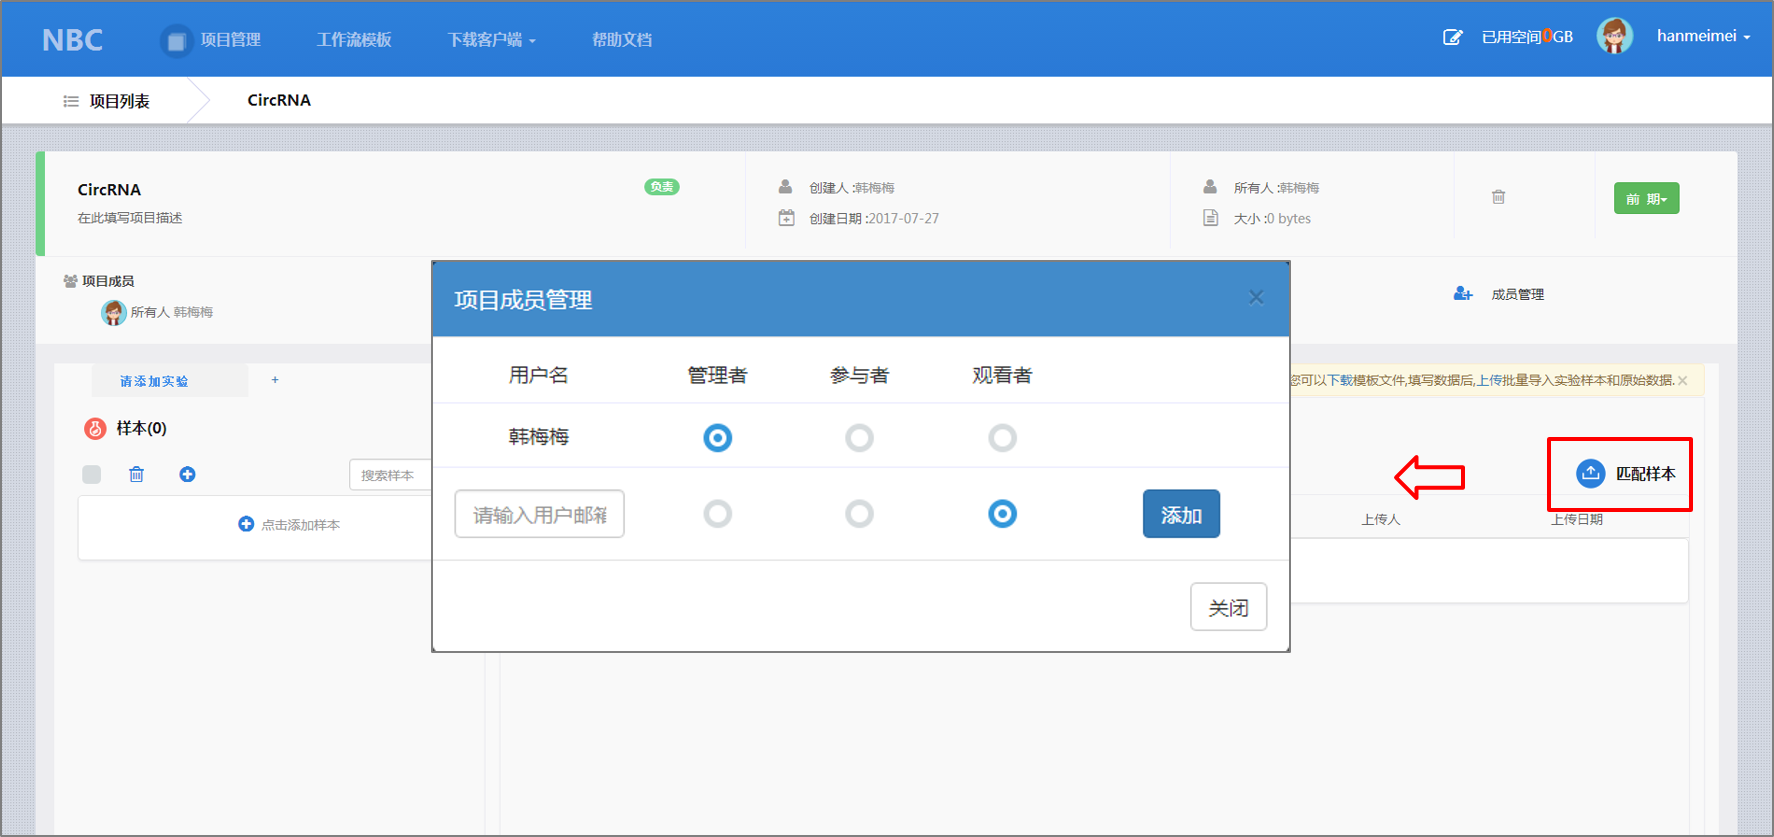
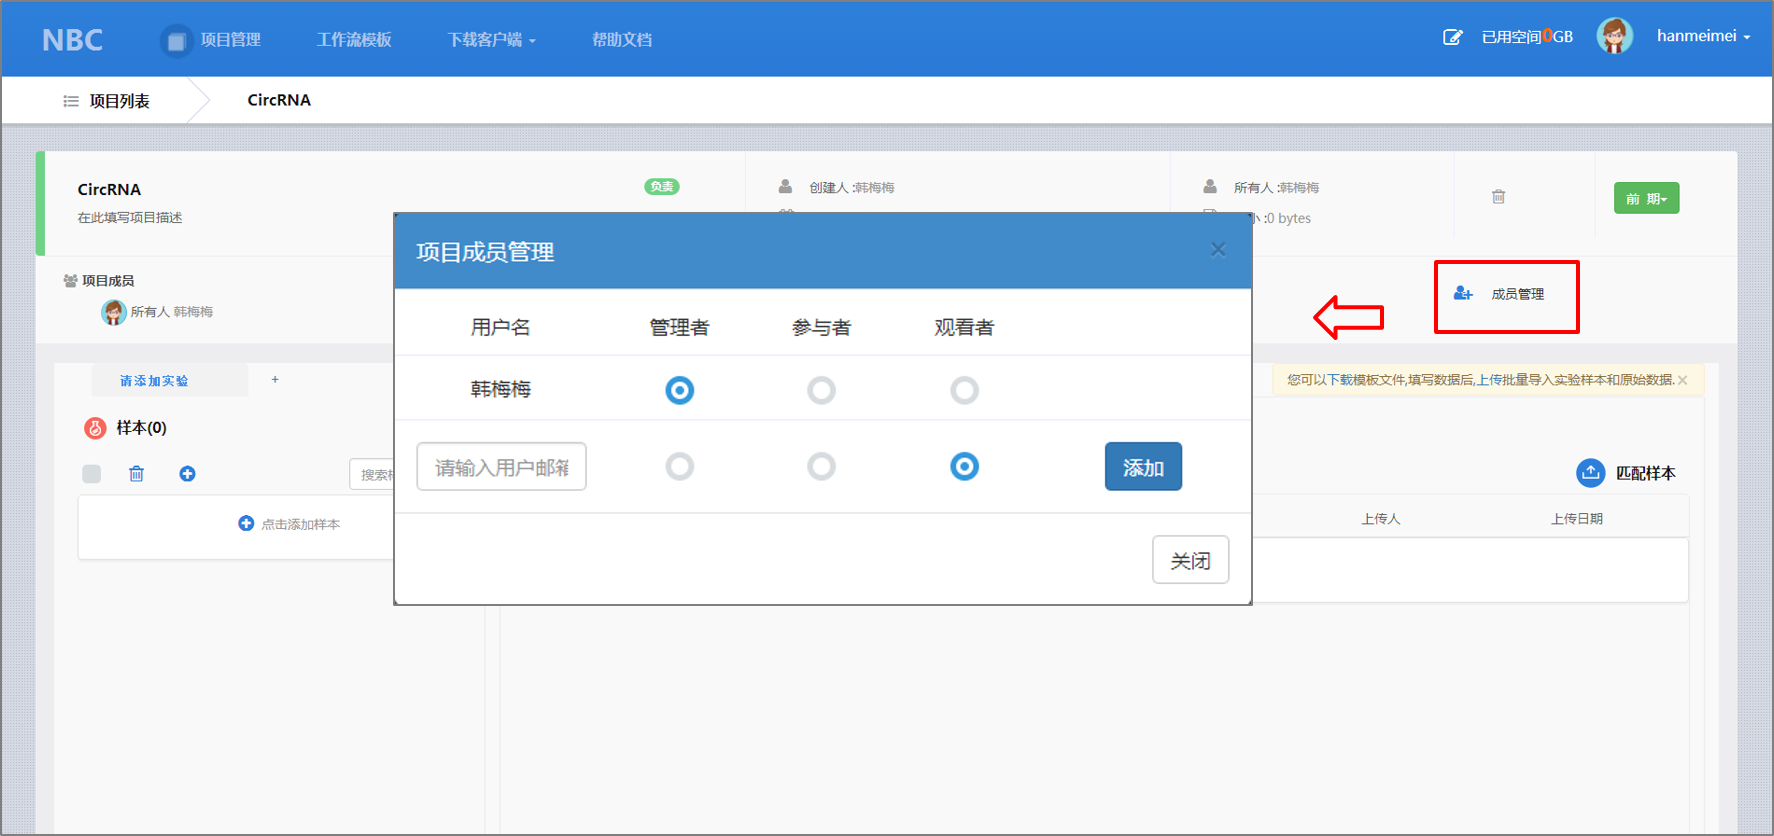
"this is a auto commit"

diff --git a/docsite-file/001_帮助文档/02_项目操作/02_创建实验及样本.md b/docsite-file/001_帮助文档/02_项目操作/02_创建实验及样本.md
@@ -1,6 +1,6 @@
 ### **  创建实验及样本**
 #### **1. 创建实验 **
-　　在项目详细页中点击“添加实验”,填写实验名称及数据类型。一般我们建议把同一种类型的测序认为是一个实验，如RNA-Seq实验，Exon-Seq实验，miRNA-Seq实验。
+　　点击“添加实验”,填写实验名称及数据类型。一般我们建议把同一种类型的测序认为是一个实验，如RNA-Seq实验，Exon-Seq实验，miRNA-Seq实验。
 <div style="text-align:center"><img data-src="1.png" width="500px" ></img>
 </div>
 
@@ -11,6 +11,6 @@
 </div>
 
 &nbsp;
-　　需要批量上传样品时，可先点击“下载”下载模板表格，填写数据后上传导入。
-<div style="text-align:center"><img data-src="8.png" width="470px" ></img>
+　　需要批量上传样本时，可先点击“下载”下载模板表格。填写实验、样本、数据后，一并上传。平台会自动根据表格填写内容，自动创建实验、样本、数据信息。具体批量使用可见样品匹配部分。
+<div style="text-align:center"><img data-src="8.png" width="600px" ></img>
 </div>

diff --git a/docsite-file/001_帮助文档/01_新手入门/04_个人中心/02_权限设置.md b/docsite-file/001_帮助文档/01_新手入门/04_个人中心/02_权限设置.md
@@ -1,5 +1,5 @@
 ###  **如何设置权限？**
-　　进入项目详细页后点击成员管理，在“项目成员管理”中可添加项目成员，并设置“管理者、参与者和观看者”，依次对应“我负责的项目”、“我参与的项目”和“我观看的项目”。
+　　进入项目详细页后，点击成员管理，在“项目成员管理”中可添加项目成员，并设置“管理者、参与者和观看者”，依次对应“我负责的项目”、“我参与的项目”和“我观看的项目”权限。
 <div style="text-align:center"><img data-src="1.png" width="600px" ></img>
 </div>
 

diff --git a/docsite-file/001_帮助文档/02_项目操作/05_样品匹配.md b/docsite-file/001_帮助文档/02_项目操作/05_样品匹配.md
@@ -33,7 +33,7 @@
 </div>
 &nbsp;
 　　填写完表格后，点击“上传”,系统自动完成自动匹配数据和样品。
-<div style="text-align:center"><img data-src="19.png" width="500px" ></img>
+<div style="text-align:center"><img data-src="19.png" width="600px" ></img>
 </div>
 **说明：**
 　　上传Excel模板后，会将网页上已经的实验、样本、数据，三者关联起来。若网页中没有实验、样本、数据，会根据Excel的填写内容建立实验、样本、数据。
